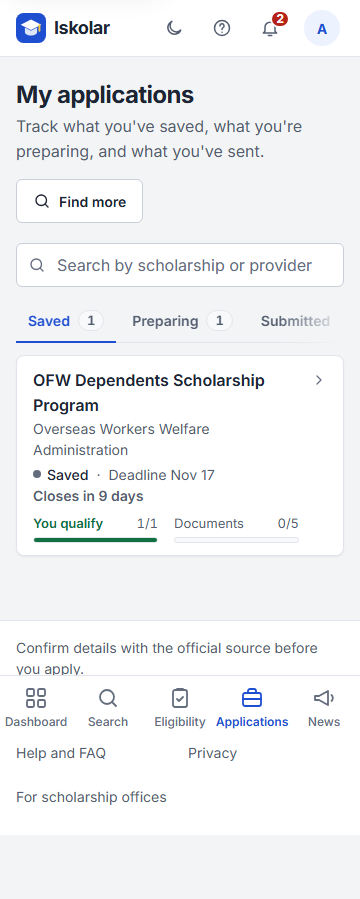
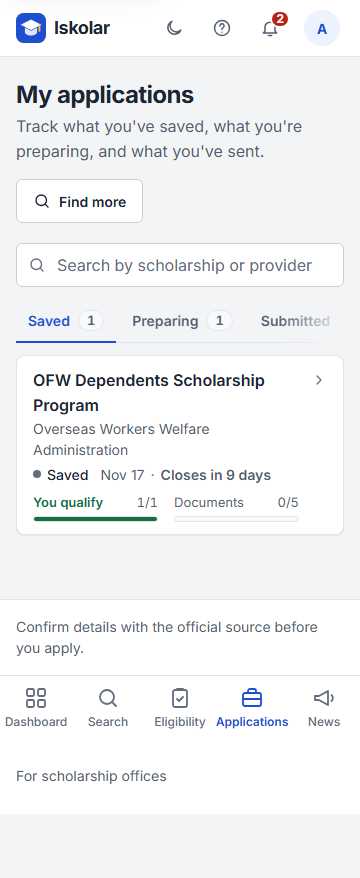
Group E follow-ups: 44px drawer title link, one-line deadline in tracking rows
- The panel's title link is 44px tall below the nav breakpoint (the phone drawer).
- Rows read "Nov 12 · Closes in 4 days" as one unbreakable group ("Deadline" stays
  for screen readers), so the row no longer wraps at 360px.
- Handoff notes: Group E pushed; E2E needs the CI env values exported.

diff --git a/src/app/(student)/applications/tracking-list.tsx b/src/app/(student)/applications/tracking-list.tsx
@@ -14,7 +14,8 @@ export type TrackRow = {
   name: string;
   provider: string;
   stage: { label: string; dot: string };
-  deadline: string;
+  /** "Nov 12", or null when there is no deadline yet. */
+  deadline: string | null;
   due: { text: string; tone: keyof typeof DUE_TONE };
   /** null: no answers yet, so nothing to count. */
   eligibility: { met: number; total: number; verdict: "yes" | "maybe" | "no" } | null;
@@ -103,14 +104,25 @@ export function TrackingList({ rows, tab, selected, tabs }: { rows: TrackRow[]; 
                     <span className="min-w-0 flex-1">
                       <span className={`block font-semibold ${current ? "lg:text-primary" : ""}`}>{r.name}</span>
                       <span className="block text-sm text-ink-secondary">{r.provider}</span>
-                      <span className="mt-1 flex flex-wrap items-center gap-x-2 text-sm">
+                      <span className="mt-1 flex flex-wrap items-center gap-x-3 text-sm">
                         <span className="inline-flex items-center gap-1.5 font-medium text-ink">
                           <span aria-hidden="true" className={`size-2 rounded-full ${r.stage.dot}`} />
                           {r.stage.label}
                         </span>
-                        <span className="text-ink-hint" aria-hidden="true">·</span>
-                        <span className="text-ink-secondary">{r.deadline}</span>
-                        <span className={`font-semibold ${DUE_TONE[r.due.tone]}`}>{r.due.text}</span>
+                        {/* "Nov 12 · Closes in 4 days" never breaks: on a narrow row it moves to its own line
+                            whole. The word "Deadline" is for screen readers. */}
+                        <span className="whitespace-nowrap">
+                          {r.deadline ? (
+                            <>
+                              <span className="text-ink-secondary">
+                                <span className="sr-only">Deadline </span>
+                                {r.deadline}
+                              </span>
+                              <span className="px-1.5 text-ink-hint" aria-hidden="true">·</span>
+                            </>
+                          ) : null}
+                          <span className={`font-semibold ${DUE_TONE[r.due.tone]}`}>{r.due.text}</span>
+                        </span>
                       </span>
                       <span className="mt-2 grid grid-cols-2 gap-4">
                         <Bar

diff --git a/src/app/(student)/applications/page.tsx b/src/app/(student)/applications/page.tsx
@@ -60,7 +60,7 @@ export default async function ApplicationsPage({ searchParams }: { searchParams:
       name: s.name,
       provider: shortProvider(s.provider!.name),
       stage: STAGE[a.stage === "submitted" && a.result !== "pending" ? a.result : a.stage],
-      deadline: s.closes_on ? `Deadline ${formatDate(s.closes_on)}` : "No deadline yet",
+      deadline: s.closes_on ? formatDate(s.closes_on) : null,
       due: { text: st.status === "closed" ? "Closed" : dueText({ ...st, opens_on: s.opens_on, closes_on: s.closes_on }), tone: urgency(st.status, st.days_left) },
       eligibility: e && e.verdict !== "none" ? { met: e.met, total: e.total, verdict: e.verdict } : null,
       docs: { done: a.checked.filter((c) => ids.has(c.document_id)).length, total: s.documents.length },

diff --git a/src/app/(student)/applications/detail.tsx b/src/app/(student)/applications/detail.tsx
@@ -30,7 +30,8 @@ export function ApplicationDetail({ s, app, evaluation }: { s: ScholarshipDetail
           <ProviderMark abbr={provider.abbr} color={provider.color} />
           <div className="min-w-0 flex-1">
             <h2 className="text-title font-[650] tracking-tight text-ink">
-              <Link href={`/s/${s.slug}`} className="text-ink">
+              {/* 44px tap target on touch screens (the drawer); compact again from the nav breakpoint. */}
+              <Link href={`/s/${s.slug}`} className="-my-2.5 inline-flex min-h-11 items-center text-ink nav:my-0 nav:min-h-0">
                 {s.name}
               </Link>
             </h2>

diff --git a/e2e/revisions-e.spec.ts b/e2e/revisions-e.spec.ts
@@ -32,7 +32,7 @@ test("wide screens: tracking list with search and progress, the selected applica
   await expect(list.getByRole("link")).toHaveCount(2);
   const row = list.getByRole("link", { name: /Tulong Dunong Program/ });
   await expect(row).toContainText("Preparing");
-  await expect(row).toContainText(/Deadline \w{3} \d+/);
+  await expect(row).toContainText(/Deadline [A-Z][a-z]{2} \d+·Closes in \d+ days?/); // "Deadline" is sr-only
   await expect(row).toContainText("Not checked"); // no eligibility answers yet
 
   // Selecting a row changes the panel in place.

diff --git a/docs/PROGRESS.md b/docs/PROGRESS.md
@@ -8,7 +8,7 @@
 | 8 Polish/QA | Done and deployed |
 | 9 Tests + docs | Done and deployed (2026-11-08); see `docs/REPORT.md` |
 | Privacy note and `/privacy` | Done and deployed (`7ebb48a`) |
-| Team-leader revisions (groups A–F) | In progress: A–D pushed (`35ce96c`); E committed |
+| Team-leader revisions (groups A–F) | In progress: A–E pushed (`6646248`); F next |
 
 ## Team-leader revisions (started 2026-11-08)
 
@@ -97,8 +97,8 @@ Brief: `C:\Users\TUF DASH\Downloads\REVISIONS_PROMPT.md` (outside the repo). Gro
 - **Tests:** lint and typecheck clean, unit 52 of 52, pgTAP 281 of 281, E2E 102 of 102 on a reset DB. New `e2e/revisions-d.spec.ts`; axe on `/announcements` and its drawer.
 - **Screenshots:** `docs/screenshots/revisions-d/`.
 
-### Group E: My applications (committed, not pushed)
-- **Migration `20261108130000_announcement_links.sql`** (ships with group E; push it with `--remote` before the code):
+### Group E: My applications (pushed, `6646248`; follow-up fixes committed, not pushed)
+- **Migration `20261108130000_announcement_links.sql`** (pushed with `--remote` before the code; the remote migration list matches):
   - `notify_announcement()` links alerts to `/announcements?a={slug}`, or `?a=general` for general posts. The bell, `/alerts`, email and push all follow `notifications.link`.
   - Existing announcement alerts are backfilled the same way; alerts whose announcement was deleted link to `/announcements`. A slug that later goes non-public lands on the board's "no public announcements" notice.
   - pgTAP `80_notifications` has 2 new assertions (283 in total).
@@ -115,7 +115,8 @@ Brief: `C:\Users\TUF DASH\Downloads\REVISIONS_PROMPT.md` (outside the repo). Gro
   - Search spans every stage (the tabs step aside while searching).
   - "N documents not ticked yet" beside Mark as submitted.
   - Stage dots are neutral/blue so amber and red stay for deadlines; "Tracking list" is screen-reader-only on phones; "Not approved" offers open scholarships.
-  - Left, kept as the brief specifies: the control sits above the checklist and "Last updated" stays in the date row. Also left: the drawer's title link is 24px tall at 360 (the footer has a 44px "Open the full page").
+  - Kept as the brief specifies (the user agreed): the control sits above the checklist and "Last updated" stays in the date row.
+  - Follow-up the user asked for: the panel's title link is 44px tall below the nav breakpoint (the drawer), and rows read "Nov 12 · Closes in 4 days" on one line at 360 ("Deadline" stays for screen readers).
 - **Tests:** new `e2e/revisions-e.spec.ts` (wide panel, cross-stage search, ticking moves the bar, phone drawer and Back, alert links, axe on the panel and the drawer); `student-journey` updated for the new layout. E2E runs need the CI env values from `.github/workflows/ci.yml` (fake Gmail, `EMAIL_DEV_SMTP`, `CRON_SECRET`) exported, or `4.7-notifications` times out.
 - **Screenshots:** `docs/screenshots/revisions-e/`.
 

diff --git a/CLAUDE.md b/CLAUDE.md
@@ -39,6 +39,7 @@ Iskolar helps Filipino college students find scholarships, check eligibility (ex
   - awesome-design-md, through `DESIGN.md`.
   - Playwright screenshots via `npm run screens -- <dir> [student:|coordinator:|admin:]<route>`, at 360/768/1280/1440 in both themes. In Git Bash prefix the command with `MSYS_NO_PATHCONV=1`.
 - **E2E on this machine:**
+  - Export the fake env values from `.github/workflows/ci.yml` (Gmail placeholders, `EMAIL_DEV_SMTP`, `CRON_SECRET`) before the run, or `4.7-notifications` times out.
   - Clear `.next/cache/fetch-cache` before full runs. Stale public search caches break the count assertions.
   - Under heavy memory pressure from other apps, tests time out. Rerun before treating a failure as real.
 
@@ -53,11 +54,11 @@ Iskolar helps Filipino college students find scholarships, check eligibility (ex
   - Stage 2, group 4 (staff and admin screens): done and pushed (`a1604dc`).
 - **Phase 9 (tests and docs):** done and pushed (`50a572d`, CI green); see `docs/REPORT.md`.
 - **Privacy note and `/privacy`:** done and pushed (`7ebb48a`).
-- **Team-leader revisions** (brief: `C:\Users\TUF DASH\Downloads\REVISIONS_PROMPT.md`, groups A–F): A and B pushed (`976d79d`); C pushed (`e061464`); D pushed (`35ce96c`); group E (My applications two-pane, plus the announcement-link migration) committed, not pushed. Push order for E: `db push --remote` first, then `git push`, asking the user before each. Details and rules are in `docs/PROGRESS.md` under "Team-leader revisions".
+- **Team-leader revisions** (brief: `C:\Users\TUF DASH\Downloads\REVISIONS_PROMPT.md`, groups A–F): A and B pushed (`976d79d`); C pushed (`e061464`); D pushed (`35ce96c`); E pushed (`6646248`, with migration `20261108130000_announcement_links` pushed first). Two small E follow-ups (drawer title tap target, one-line deadline) are committed after that, not pushed. Details and rules are in `docs/PROGRESS.md` under "Team-leader revisions".
 - **Branch:** `main`. No work-in-progress branch.
 
 ## Remaining work
-Team-leader revisions: push group E (after asking), then group F (see `docs/PROGRESS.md`). For each group: build, test on a reset DB, take screenshots, run one critique, commit, update this file and PROGRESS, then ask before pushing.
+Team-leader revisions: group F (ask before pushing it and the E follow-ups) (see `docs/PROGRESS.md`). For each group: build, test on a reset DB, take screenshots, run one critique, commit, update this file and PROGRESS, then ask before pushing.
 
 Also waiting on the user:
 - The deferred P2/P3 items in `docs/REPORT.md`, if they want them.
